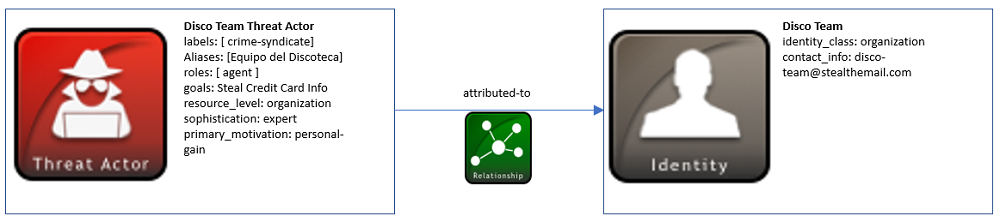
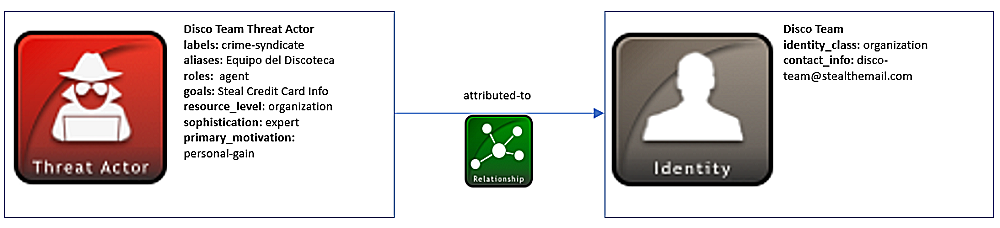
Added new Example, reformatted others
--Added "Sighting of an Indicator" example and corresponding
diagram/json.
Fixed several issues pointed out by Greg Back such as:
--Reording STIX Icons in alphabetical order on Examples page
--Adding links to objects within the content of each example
--Edited each diagram to help distinguish between properties/values,
make the pictures less blurry, and remove unnecessary brackets
--Added line to _config.yml file in order to remove smart quotes from
the site.
--Edited other typos with Examples' content

diff --git a/examples/threat-actor-leveraging-attack-patterns-and-malware.md b/examples/threat-actor-leveraging-attack-patterns-and-malware.md
@@ -14,15 +14,15 @@ This scenario represents a threat actor known as “Adversary Bravo”. Adversar
 **Data model**
 --------------
 
-Any known characteristics and attributes of Adversary Bravo can be modeled using the Threat Actor STIX Domain Object (SDO). This object captures information specific to the threat actor, such as other aliases, motivations for attacking, and roles they may have in an attack. Sometimes this information is not fully known, which is the case for Adversary Bravo. Therefore, you only need to specify required properties for the Threat Actor object which consist of a <span class="sdo">**name**</span> and a list of <span class="sdo">**labels**</span>. The <span class="sdo">**labels**</span> field categorizes the type of threat actor based on the open vocabulary [threat-actor-label-ov](https://docs.google.com/document/d/1HRVFn2kAxBOTMbEb3KRu8tjMoHm-KRAI-2R8CTzGil4/edit#heading=h.tqbl8z36yoir). In this instance we can infer that by using Poison Ivy malware to establish a remote backdoor, Adversary Bravo may be performing nefarious activity or spying which results in labels of <span class="values">criminal</span> and <span class="values">spy</span>.
+Any known characteristics and attributes of Adversary Bravo can be modeled using the [Threat Actor](https://docs.google.com/document/d/1nipwFIaFwkHo4Gzw-qxZQpCjP_5tX7rbI3Ic5C56Z88/edit#heading=h.k017w16zutw) STIX Domain Object (SDO). This object captures information specific to the threat actor, such as other aliases, motivations for attacking, and roles they may have in an attack. Sometimes this information is not fully known, which is the case for Adversary Bravo. Therefore, you only need to specify required properties for the Threat Actor object which consist of a <span class="sdo">**name**</span> and a list of <span class="sdo">**labels**</span>. The <span class="sdo">**labels**</span> field categorizes the type of threat actor based on the open vocabulary [threat-actor-label-ov](https://docs.google.com/document/d/1HRVFn2kAxBOTMbEb3KRu8tjMoHm-KRAI-2R8CTzGil4/edit#heading=h.tqbl8z36yoir). In this instance we can infer that by using Poison Ivy malware to establish a remote backdoor, Adversary Bravo may be performing nefarious activity or spying which results in labels of <span class="values">criminal</span> and <span class="values">spy</span>.
 
-Other basic identifying information about Adversary Bravo is captured with an Identity SDO. In this scenario, this object is used for a threat actor identity, but it can also represent organizations, governments, and other entities. It is useful for capturing sectors this Identity may be affiliated with as well as relevant contact information. In the case of Adversary Bravo, there is little information about this identity, so the required <span class="sdo">**identity\_class**</span> property, based on the [identity class open vocabulary](https://docs.google.com/document/d/1HRVFn2kAxBOTMbEb3KRu8tjMoHm-KRAI-2R8CTzGil4/edit#heading=h.be1dktvcmyu), would be <span class="values">unknown</span>. The Identity SDO can be linked with the Threat Actor SDO by using a Relationship object. The type of relationship between the 2 objects, represented by the <span class="sdo">**relationship\_type**</span> field, would contain a value of <span class="values">attributed-to</span>, meaning this threat actor is attributed to this identity.
+Other basic identifying information about Adversary Bravo is captured with an [Identity](https://docs.google.com/document/d/1nipwFIaFwkHo4Gzw-qxZQpCjP_5tX7rbI3Ic5C56Z88/edit#heading=h.wh296fiwpklp) SDO. In this scenario, this object is used for a threat actor identity, but it can also represent organizations, governments, and other entities. It is useful for capturing sectors this Identity may be affiliated with as well as relevant contact information. In the case of Adversary Bravo, there is little information about this identity, so the required <span class="sdo">**identity\_class**</span> property, based on the [identity class open vocabulary](https://docs.google.com/document/d/1HRVFn2kAxBOTMbEb3KRu8tjMoHm-KRAI-2R8CTzGil4/edit#heading=h.be1dktvcmyu), would be <span class="values">unknown</span>. The Identity SDO can be linked with the Threat Actor SDO by using a Relationship object. The type of relationship between the 2 objects, represented by the <span class="sdo">**relationship\_type**</span> field, would contain a value of <span class="values">attributed-to</span>, meaning this threat actor is attributed to this identity.
 
-The malware in this scenario is a Poison Ivy variant d1c6 which can be represented using a Malware SDO. It is required for every Malware object to incorporate a list of <span class="sdo">**labels**</span> to describe the malware. Since this is a type of remote trojan, the <span class="sdo">**labels**</span> property would contain the value <span class="values">remote-access-trojan</span> which comes from the [malware label open vocabulary](https://docs.google.com/document/d/1HRVFn2kAxBOTMbEb3KRu8tjMoHm-KRAI-2R8CTzGil4/edit#heading=h.8cyb6e9yqzwr). You can label malware objects with more than one value however, as some may likely have more than one capability. For instance, a particular type of malware could be both a keylogger and spyware. Another relationship can be established between this Malware SDO and the Threat Actor SDO. In this case, the <span class="sdo">**relationship\_type**</span> between the two objects would be <span class="values">uses</span>. The Threat Actor <span class="values">uses</span> the Malware.
+The malware in this scenario is a Poison Ivy variant d1c6 which can be represented using a [Malware](https://docs.google.com/document/d/1nipwFIaFwkHo4Gzw-qxZQpCjP_5tX7rbI3Ic5C56Z88/edit#heading=h.s5l7katgbp09) SDO. It is required for every Malware object to incorporate a list of <span class="sdo">**labels**</span> to describe the malware. Since this is a type of remote trojan, the <span class="sdo">**labels**</span> property would contain the value <span class="values">remote-access-trojan</span> which comes from the [malware label open vocabulary](https://docs.google.com/document/d/1HRVFn2kAxBOTMbEb3KRu8tjMoHm-KRAI-2R8CTzGil4/edit#heading=h.8cyb6e9yqzwr). You can label malware objects with more than one value however, as some may likely have more than one capability. For instance, a particular type of malware could be both a keylogger and spyware. Another relationship can be established between this Malware SDO and the Threat Actor SDO. In this case, the <span class="sdo">**relationship\_type**</span> between the two objects would be <span class="values">uses</span>. The Threat Actor <span class="values">uses</span> the Malware.
 
-Adversary Bravo uses phishing as a delivery mechanism for the Poison Ivy malware which can be represented using an Attack Pattern SDO. In addition to providing more context about what the threat actor is trying to do, Attack Pattern objects are useful for representing taxonomies such as CAPEC with the <span class="sdo">**external\_references**</span> field. [*Common Attack Pattern Enumeration and Classification (CAPEC™)*](http://capec.mitre.org/) is a dictionary of potential attack patterns, so in this case by looking in that dictionary the producer could see that “CAPEC-98” is the ID for phishing and can label the <span class="sdo">**external\_id**</span> as such. A Relationship SRO once again links the Threat Actor to this Attack Pattern object with a <span class="sdo">**relationship\_type**</span> of <span class="values">uses</span>.
+Adversary Bravo uses phishing as a delivery mechanism for the Poison Ivy malware which can be represented using an [Attack Pattern](https://docs.google.com/document/d/1nipwFIaFwkHo4Gzw-qxZQpCjP_5tX7rbI3Ic5C56Z88/edit#heading=h.axjijf603msy) SDO. In addition to providing more context about what the threat actor is trying to do, Attack Pattern objects are useful for representing taxonomies such as CAPEC with the <span class="sdo">**external\_references**</span> field. [*Common Attack Pattern Enumeration and Classification (CAPEC™)*](http://capec.mitre.org/) is a dictionary of potential attack patterns, so in this case by looking in that dictionary the producer could see that “CAPEC-98” is the ID for phishing and can label the <span class="sdo">**external\_id**</span> as such. A Relationship SRO once again links the Threat Actor to this Attack Pattern object with a <span class="sdo">**relationship\_type**</span> of <span class="values">uses</span>.
 
-One other useful concept that is seen in both the Malware and Attack Pattern objects is the ability to capture kill chain information. For instance, certain attack patterns, malware, and tools might be used to establish a foothold or move laterally once a system has been compromised. In this example, the Poison Ivy malware and phishing attack pattern are associated with the kill chain phase <span class="values">initial-compromise</span>, since the threat actor is attempting to establish an initial backdoor with the Poison Ivy variant. This phase is from the Mandiant Attack Lifecycle Model, but you are not limited to using any specific type of kill chain.
+One other useful concept that is seen in both the Malware and Attack Pattern objects is the ability to capture [kill chain](https://docs.google.com/document/d/1IcA5KhglNdyX3tO17bBluC5nqSf70M5qgK9nuAoYJgw/edit#heading=h.i4tjv75ce50h) information. For instance, certain attack patterns, malware, and tools might be used to establish a foothold or move laterally once a system has been compromised. In this example, the Poison Ivy malware and phishing attack pattern are associated with the kill chain phase <span class="values">initial-compromise</span>, since the threat actor is attempting to establish an initial backdoor with the Poison Ivy variant. This phase is from the Mandiant Attack Lifecycle Model, but you are not limited to using any specific type of kill chain.
 
 A diagram below shows the objects used in this scenario:
 
@@ -40,6 +40,7 @@ To read more about the objects in this example as well as common properties and 
 -   [Attack Pattern](https://docs.google.com/document/d/1nipwFIaFwkHo4Gzw-qxZQpCjP_5tX7rbI3Ic5C56Z88/edit#heading=h.axjijf603msy)
 -   [Malware](https://docs.google.com/document/d/1nipwFIaFwkHo4Gzw-qxZQpCjP_5tX7rbI3Ic5C56Z88/edit#heading=h.s5l7katgbp09)
 -   [Relationship](https://docs.google.com/document/d/1nipwFIaFwkHo4Gzw-qxZQpCjP_5tX7rbI3Ic5C56Z88/edit#heading=h.e2e1szrqfoan)
+-   [Kill Chain Phase](https://docs.google.com/document/d/1IcA5KhglNdyX3tO17bBluC5nqSf70M5qgK9nuAoYJgw/edit#heading=h.i4tjv75ce50h)
 
 **JSON**
 ------------------

diff --git a/examples/sighting-of-an-indicator.md b/examples/sighting-of-an-indicator.md
@@ -1,0 +1,115 @@
+---
+layout: page
+title: Sighting of an Indicator
+categories: examples
+---
+
+A major benefit of cyber threat intelligence sharing and collaboration is the ability to alert other companies and agencies ahead of time that an indicator is present on a system or network. This allows for a more proactive approach in addressing cyber threats. In many cases, an indicator that was spotted on one network is also seen on another network. Being able to share that a particular indicator was seen elsewhere is vital to other organizations consuming this information.
+
+**Scenario**
+------------
+
+This scenario consists of two cyber threat companies, Alpha and Beta, who share threat intelligence. A malicious URL was seen on Alpha’s network and an indicator was generated to capture this information. Alpha then shares this information with company Beta who later sees this indicator on their systems. Beta then creates a sighting of this indicator to share that this indicator has been spotted.
+
+**Data model**
+--------------
+
+In this example, there are two [Identity](https://docs.google.com/document/d/1S5XhY6F5OT599b0OuHtUf8IBzFvNY8RysFHIj93DgsY/edit#heading=h.wh296fiwpklp) STIX Domain Objects (SDOs) used for the two companies: Alpha and Beta. The Identity objects document relevant information about the two organizations, such as what sector they are in, what they do, and contact information. Both organizations are producers and consumers of STIX intelligence, so their <span class="sdo">**id**</span>’s can be referenced within objects using the <span class="sdo">**created\_by\_ref**</span> property to indicate they are the originators of the STIX objects they generate. It is worth noting that Identity SDO’s can also be used to represent individuals, attack targets, government agencies, and groups, to name a few.
+
+Identity objects at the very minimum need a couple of required properties: <span class="sdo">**name**</span> and <span class="sdo">**identity\_class**</span>. The <span class="sdo">**identity\_class**</span> field is important for categorizing the type of identity Alpha and Beta represent. In both their cases, this field would be populated with the value <span class="values">organization</span>. This term comes from the [identity class open vocabulary](https://docs.google.com/document/d/1HRVFn2kAxBOTMbEb3KRu8tjMoHm-KRAI-2R8CTzGil4/edit#heading=h.be1dktvcmyu), which contains suggested values for labeling identities.
+
+The other fields within the Identity SDO are optional but help to structure a complete profile of the identity. For instance, it might be useful to know the list of roles an individual or group may perform, which is captured with the <span class="sdo">**labels**</span> property. Since both companies in this scenario deal with cyber threats, it makes sense to have them labeled as <span class="values">cyber security</span>. If you know the list of <span class="sdo">**sectors**</span> the identities may belong to or any relevant <span class="sdo">**contact\_information**</span>, this can be provided as well for these objects. For example, knowing that some STIX object creators are in the financial sector may provide more context as to why they are seeing certain indicators or being targeted by specific threat actors. Both of the companies in this example operate in the <span class="values">technology</span> sector, which comes from the [industry sector open vocabulary](https://docs.google.com/document/d/1IcA5KhglNdyX3tO17bBluC5nqSf70M5qgK9nuAoYJgw/edit#heading=h.oogrswk3onck).
+
+Next, the Alpha company uses an [Indicator](https://docs.google.com/document/d/1S5XhY6F5OT599b0OuHtUf8IBzFvNY8RysFHIj93DgsY/edit#heading=h.muftrcpnf89v) SDO to capture information about the malicious URL they discovered on their network. Using the [STIX patterning language](https://docs.google.com/document/d/1suvd7z7YjNKWOwgko-vJ84jfGuxSYZjOQlw5leCswPY/edit), Alpha represents the URL as a comparison expression in the <span class="sdo">**pattern**</span> property: <span class="values">\[url:value = 'http://paypa1.banking.com'\]</span>. Since Alpha knows this URL is nefarious, they label this Indicator as <span class="values">malicious-activity</span> using the <span class="sdo">**labels**</span> field which comes from the [indicator label open vocabulary](https://docs.google.com/document/d/1IcA5KhglNdyX3tO17bBluC5nqSf70M5qgK9nuAoYJgw/edit#heading=h.cvhfwe3t9vuo).
+
+The Beta company receives this indicator intelligence from Alpha and implements it on their own network to look for this specific URL. Once they spot it, they generate a [Sighting](https://docs.google.com/document/d/1S5XhY6F5OT599b0OuHtUf8IBzFvNY8RysFHIj93DgsY/edit#heading=h.a795guqsap3r) STIX Relationship Object (SRO), which is a special type of relationship object that differs from the regular Relationship SRO. For instance, Sighting contains unique properties like <span class="sdo">**count**</span>, <span class="sdo">**first\_seen**</span>, and <span class="sdo">**last\_seen**</span> that convey when a SDO was seen within a particular timeframe as well as the number of times this SDO was seen. Alternatively, a standard Relationship SRO is simply used to connect two SDO’s together and does not provide the same type of intelligence assertions.
+
+In this example, Beta’s Sighting object captures information about Alpha’s Indicator which they spotted on their network. Since they are the creator of this object as well as the victim in this instance, Beta’s Identity ID is represented in the <span class="sdo">**created\_by\_ref**</span> and <span class="sdo">**where\_sighted\_refs**</span> properties respectively. It is worth mentioning that the <span class="sdo">**where\_sighted\_refs**</span> field is a list, so it can also list other Identity SDO ID’s where this indicator was seen. Another reference, <span class="sdo">**sighting\_of\_ref**</span>, contains the ID of the SDO that was sighted, which in this case is the Indicator object. This is a required property due to the fact you cannot have a Sighting without an object to sight.
+
+In some cases, an indicator like a URL can be spotted several times on a network over a significant period of time. For this scenario, however, Beta only spotted the URL once which results in the **count** field reflecting an integer value of “1”. Since it was just seen once, the <span class="sdo">**first\_seen**</span>, and <span class="sdo">**last\_seen**</span> properties portray the same timestamp.
+
+A diagram of this scenario below shows the Identity and Indicator SDO’s and the Sighting SRO:
+
+![Sighting of an Indicator]({{ site.baseurl }}/img/Sighting-of-an-indicator.PNG)
+
+**Further Reading**
+-------------------
+
+To read more about the objects in this example as well as common properties and vocabularies, check out the links below:
+
+-   [Common Properties](https://docs.google.com/document/d/1HRVFn2kAxBOTMbEb3KRu8tjMoHm-KRAI-2R8CTzGil4/edit#heading=h.xzbicbtscatx)
+-   [Vocabularies](https://docs.google.com/document/d/1HRVFn2kAxBOTMbEb3KRu8tjMoHm-KRAI-2R8CTzGil4/edit#heading=h.iit7tolczlxv)
+-   [Identity](https://docs.google.com/document/d/1nipwFIaFwkHo4Gzw-qxZQpCjP_5tX7rbI3Ic5C56Z88/edit#heading=h.wh296fiwpklp)
+-   [Sighting](https://docs.google.com/document/d/1S5XhY6F5OT599b0OuHtUf8IBzFvNY8RysFHIj93DgsY/edit#heading=h.a795guqsap3r)
+-   [Indicator](https://docs.google.com/document/d/1S5XhY6F5OT599b0OuHtUf8IBzFvNY8RysFHIj93DgsY/edit#heading=h.muftrcpnf89v)
+
+**JSON**
+------------------
+
+```
+{
+  "type": "bundle",
+  "id": "bundle--c6a895f2-849c-4d1b-aba4-4b45c2800374",
+  "spec_version": "2.0",
+  "objects": [
+    {
+      "type": "identity",
+      "id": "identity--39012926-a052-44c4-ae48-caaf4a10ee6e",
+      "created": "2017-02-24T15:50:10.564Z",
+      "modified": "2017-08-24T15:50:10.564Z",
+      "name": "Alpha Threat Analysis Org.",
+      "identity_class": "organization",
+      "labels": [
+        "Cyber Security"
+      ],
+      "sectors": [
+        "technology"
+      ],
+      "contact_information": "info@alpha.org"
+    },
+    {
+      "type": "identity",
+      "id": "identity--5206ba14-478f-4b0b-9a48-395f690c20a2",
+      "created": "2017-02-26T17:55:10.442Z",
+      "modified": "2017-02-26T17:55:10.442Z",
+      "name": "Beta Cyber Intelligence Company",
+      "identity_class": "organization",
+      "labels": [
+        "Cyber Security"
+      ],
+      "sectors": [
+        "technology"
+      ],
+      "contact_information": "info@beta.com"
+    },
+    {
+      "type": "indicator",
+      "id": "indicator--9299f726-ce06-492e-8472-2b52ccb53191",
+      "created_by_ref": "identity--39012926-a052-44c4-ae48-caaf4a10ee6e",
+      "created": "2017-02-27T13:57:10.515Z",
+      "modified": "2017-02-27T13:57:10.515Z",
+      "name": "Malicious URL",
+      "description": "This URL is potentially associated with malicious activity and is listed on several blacklist sites.",
+      "pattern": "[url:value = 'http://paypa1.banking.com']",
+      "valid_from": "2015-06-29T09:10:15.915Z",
+      "labels": [
+        "malicious-activity"
+      ]
+    },
+    {
+      "type": "sighting",
+      "id": "sighting--8356e820-8080-4692-aa91-ecbe94006833",
+      "created_by_ref": "identity--5206ba14-478f-4b0b-9a48-395f690c20a2",
+      "created": "2017-02-28T19:37:11.213Z",
+      "modified": "2017-02-28T19:37:11.213Z",
+      "first_seen": "2017-02-27T21:37:11.213Z",
+      "last_seen": "2017-02-27T21:37:11.213Z",
+      "count": 1,
+      "sighting_of_ref": "indicator--9299f726-ce06-492e-8472-2b52ccb53191",
+      "where_sighted_refs": [
+        "identity--5206ba14-478f-4b0b-9a48-395f690c20a2"
+      ]
+    }
+  ]
+}
+```

diff --git a/examples/identifying-a-threat-actor-profile.md b/examples/identifying-a-threat-actor-profile.md
@@ -14,19 +14,19 @@ In this scenario, a threat actor group named “Disco Team” is modeled using S
 **Data model**
 --------------
 
-Threat actor identification is, as you would expect, represented using the Threat Actor STIX Domain Object (SDO). Information relevant to threat actors, such as goals and motivations, can be captured within this object. Other basic information not specific to threat actors, such as contact information, is best represented using an Identity SDO. Identity objects can also be used for more than threat actors in STIX. They can model organizations, government agencies, and information sources to name a few.
+Threat actor identification is, as you would expect, represented using the [Threat Actor](https://docs.google.com/document/d/1S5XhY6F5OT599b0OuHtUf8IBzFvNY8RysFHIj93DgsY/edit#heading=h.k017w16zutw) STIX Domain Object (SDO). Information relevant to threat actors, such as goals and motivations, can be captured within this object. Other basic information not specific to threat actors, such as contact information, is best represented using an Identity SDO. Identity objects can also be used for more than threat actors in STIX. They can model organizations, government agencies, and information sources to name a few.
 
-It is important to note that the Disco Team group operates as a Threat Actor and not an Intrusion Set in this scenario. They could potentially support an intrusion set, but that information is unknown. An Intrusion Set is best used to describe an entire attack set that would include multiple campaigns and purposes. In this instance, Disco Team is a self-named threat actor operating with one purpose in mind.
+It is important to note that the Disco Team group operates as a Threat Actor and not an [Intrusion Set](https://docs.google.com/document/d/1S5XhY6F5OT599b0OuHtUf8IBzFvNY8RysFHIj93DgsY/edit#heading=h.5ol9xlbbnrdn) in this scenario. They could potentially support an intrusion set, but that information is unknown. An Intrusion Set is best used to describe an entire attack set that would include multiple campaigns and purposes. In this instance, Disco Team is a self-named threat actor operating with one purpose in mind.
 
-The <span class="sdo">**name**</span> and <span class="sdo">**labels**</span> properties are the only required properties needed for a Threat Actor SDO. The **labels** field is important for describing what type of threat actor Disco Team is. Because Disco Team is regarded as large, organized, and driven to steal financial information, they are best represented with the label <span class="values">crime-syndicate</span>.
+The <span class="sdo">**name**</span> and <span class="sdo">**labels**</span> properties are the only required properties needed for a Threat Actor SDO. The <span class="sdo">**labels**</span> field is important for describing what type of threat actor Disco Team is. Because Disco Team is regarded as large, organized, and driven to steal financial information, they are best represented with the label <span class="values">crime-syndicate</span>.
 
 The Threat Actor SDO can also model optional properties that construct a more complete threat actor profile. The <span class="sdo">**aliases**</span> field, for instance, contains a list of other names this threat actor is known to be called. A threat actor may also have one or more <span class="sdo">**roles**</span> that describe more about what they do. For instance, a threat actor could sponsor or direct attacks, author malware, or operate malicious infrastructure. In the case of Disco Team, they operate as an <span class="values">agent</span>, carrying out attacks that steal financial information on behalf of themselves.
 
 Like most threat actors, Disco Team has a specific goal in mind for their attacks. Therefore, a list of <span class="sdo">**goals**</span> describes what the threat actor is trying to do. In this case, Disco Team’s only goal is stealing credit card credentials. Threat actors also have varying degrees of expertise, so the <span class="sdo">**sophistication**</span> level of the attacker, if known, can describe the attacker’s skill and knowledge. Disco Team is labeled as <span class="values">expert</span> due to advanced attack methods and proficiency with tools or malicious code. Their <span class="sdo">**resource\_level**</span> of <span class="values">organization</span> indicates that they are large and well-funded, more so than smaller individuals or teams. Finally, threat actors usually have one or several motivations behind their attacks. The <span class="sdo">**primary\_motivation**</span> field describes the main reason for attacking. Some threat actors may seek notoriety or dominance, while others are strictly doing it for revenge or personal satisfaction. For Disco Team, obtaining financial information falls under the motivation of <span class="values">personal-gain</span>.
 
-Basic identifying information of the threat actor can be modeled with the Identity SDO. For Disco Team, they are a type of <span class="values">organization</span>, which the <span class="sdo">**identity\_class**</span> field captures. This is due to this threat actor being more formal and organized, rather than an <span class="values">individual</span> hacker or informal <span class="values">group</span> of hackers. Another property that captures <span class="sdo">**contact\_information**</span>, if known for the identity, represents any email addresses or phone numbers. For Disco Team, an email address is provided.
+Basic identifying information of the threat actor can be modeled with the [Identity](https://docs.google.com/document/d/1nipwFIaFwkHo4Gzw-qxZQpCjP_5tX7rbI3Ic5C56Z88/edit#heading=h.wh296fiwpklp) SDO. For Disco Team, they are a type of <span class="values">organization</span>, which the <span class="sdo">**identity\_class**</span> field captures. This is due to this threat actor being more formal and organized, rather than an <span class="values">individual</span> hacker or informal <span class="values">group</span> of hackers. Another property that captures <span class="sdo">**contact\_information**</span>, if known for the identity, represents any email addresses or phone numbers. For Disco Team, an email address is provided.
 
-Now that the information for Disco Team is represented in the Threat Actor and Identity SDO’s, the Relationship SRO links the two objects together. In this example, the <span class="sdo">**source\_ref**</span> threat actor id is <span class="values">attributed-to</span> the <span class="sdo">**target\_ref**</span> identity id:
+Now that the information for Disco Team is represented in the Threat Actor and Identity SDO’s, the [Relationship](https://docs.google.com/document/d/1nipwFIaFwkHo4Gzw-qxZQpCjP_5tX7rbI3Ic5C56Z88/edit#heading=h.e2e1szrqfoan) SRO links the two objects together. In this example, the <span class="sdo">**source\_ref**</span> threat actor id is <span class="values">attributed-to</span> the <span class="sdo">**target\_ref**</span> identity id:
 
 A diagram of this relationship below shows the Threat Actor and Identity SDO’s and the Relationship SRO:
 

diff --git a/examples/malware-indicator-for-file-hash.md b/examples/malware-indicator-for-file-hash.md
@@ -14,13 +14,13 @@ This scenario consists of the description of a simple indicator that represents 
 **Data model**
 ----------
 
[2 lines of base64/hex data omitted]
 
 Indicator objects also require a <span class="sdo">**labels**</span> property which helps to define what type of indicator is being represented. In this scenario, the hash value is associated with Poison Ivy, a known nefarious type of malware, so this indicator is labeled as <span class="values">malicious-activity</span>. This value is taken from the [Indicator Label](https://docs.google.com/document/d/1HRVFn2kAxBOTMbEb3KRu8tjMoHm-KRAI-2R8CTzGil4/edit#heading=h.cvhfwe3t9vuo) open vocabulary which provides other useful labels for classifying indicators.
 
-Next, the details of the Poison Ivy malware are captured using a STIX Malware object. Malware objects in STIX also contain a required <span class="sdo">**labels**</span> property that is needed to specify the type of malware. In this case, Poison Ivy is a <span class="values">remote-access-trojan</span>. This value comes from the [Malware Label](https://docs.google.com/document/d/1HRVFn2kAxBOTMbEb3KRu8tjMoHm-KRAI-2R8CTzGil4/edit#heading=h.8cyb6e9yqzwr) open vocabulary, which contains several common types of malware categories such as virus, backdoor, spyware, etc.
+Next, the details of the Poison Ivy malware are captured using a STIX [Malware](https://docs.google.com/document/d/1nipwFIaFwkHo4Gzw-qxZQpCjP_5tX7rbI3Ic5C56Z88/edit#heading=h.s5l7katgbp09) object. Malware objects in STIX also contain a required <span class="sdo">**labels**</span> property that is needed to specify the type of malware. In this case, Poison Ivy is a <span class="values">remote-access-trojan</span>. This value comes from the [Malware Label](https://docs.google.com/document/d/1HRVFn2kAxBOTMbEb3KRu8tjMoHm-KRAI-2R8CTzGil4/edit#heading=h.8cyb6e9yqzwr) open vocabulary, which contains several common types of malware categories such as virus, backdoor, spyware, etc.
 
-These SDO’s are then coupled together via a Relationship STIX Relationship Object (SRO). This Relationship connects the <span class="sdo">**source\_ref**</span>, Indicator, with the <span class="sdo">**target\_ref**</span>, Malware, via an <span class="values">indicates</span> <span class="sdo">**relationship\_type**</span>.
+These SDO’s are then coupled together via a [Relationship](https://docs.google.com/document/d/1nipwFIaFwkHo4Gzw-qxZQpCjP_5tX7rbI3Ic5C56Z88/edit#heading=h.e2e1szrqfoan) STIX Relationship Object (SRO). This Relationship connects the <span class="sdo">**source\_ref**</span>, Indicator, with the <span class="sdo">**target\_ref**</span>, Malware, via an <span class="values">indicates</span> <span class="sdo">**relationship\_type**</span>.
 
 A diagram of this relationship below shows the Indicator and Malware SDO’s and the Relationship SRO between them:
 
@@ -32,6 +32,7 @@ A diagram of this relationship below shows the Indicator and Malware SDO’s and
 To read more about the objects in this example as well as common properties and STIX patterning, check out the links below:
 
 -   [Common Properties](https://docs.google.com/document/d/1HRVFn2kAxBOTMbEb3KRu8tjMoHm-KRAI-2R8CTzGil4/edit#heading=h.xzbicbtscatx)
+-   [Vocabularies](https://docs.google.com/document/d/1HRVFn2kAxBOTMbEb3KRu8tjMoHm-KRAI-2R8CTzGil4/edit#heading=h.iit7tolczlxv)
 -   [Malware](https://docs.google.com/document/d/1nipwFIaFwkHo4Gzw-qxZQpCjP_5tX7rbI3Ic5C56Z88/edit#heading=h.s5l7katgbp09)
 -   [Indicator](https://docs.google.com/document/d/1nipwFIaFwkHo4Gzw-qxZQpCjP_5tX7rbI3Ic5C56Z88/edit#heading=h.muftrcpnf89v)
 -   [Relationship](https://docs.google.com/document/d/1nipwFIaFwkHo4Gzw-qxZQpCjP_5tX7rbI3Ic5C56Z88/edit#heading=h.e2e1szrqfoan)

diff --git a/examples/indicator-for-malicious-url.md b/examples/indicator-for-malicious-url.md
@@ -15,17 +15,17 @@ This scenario consists of an indicator for the URL <span class="values">http://
 **Data model**
 --------------
 
-Malicious URL values are just one of many indicators that can be represented using the Indicator STIX Domain Object (SDO). This is accomplished using the Indicator SDO’s <span class="sdo">**pattern**</span> property which is based on the [STIX patterning](https://docs.google.com/document/d/1VHy5FIAj2rBlrRlNH3lRCBa5EfrxSDGemG4PrI9JG4I/edit) language. Using this language, the URL can be structured using a comparison expression: <span class="values">\[url:value= 'http://x4z9arb.cn/4712/'\]</span>.
+Malicious URL values are just one of many indicators that can be represented using the [Indicator](https://docs.google.com/document/d/1nipwFIaFwkHo4Gzw-qxZQpCjP_5tX7rbI3Ic5C56Z88/edit#heading=h.muftrcpnf89v) STIX Domain Object (SDO). This is accomplished using the Indicator SDO’s <span class="sdo">**pattern**</span> property which is based on the [STIX patterning](https://docs.google.com/document/d/1VHy5FIAj2rBlrRlNH3lRCBa5EfrxSDGemG4PrI9JG4I/edit) language. Using this language, the URL can be structured using a comparison expression: <span class="values">\[url:value= 'http://x4z9arb.cn/4712/'\]</span>.
 
 This Indicator object must also contain a <span class="sdo">**labels**</span> property that provides more context about the URL. The URL in this scenario is known to be malicious so the appropriate label for this Indicator is <span class="values">malicious-activity</span>. This value is taken from an [Indicator Label](https://docs.google.com/document/d/1HRVFn2kAxBOTMbEb3KRu8tjMoHm-KRAI-2R8CTzGil4/edit#heading=h.cvhfwe3t9vuo) open vocabulary which contains other useful labels for categorizing indicators.
 
 Another required field for Indicator objects called <span class="sdo">**valid\_from**</span> dictates the time from which this URL should be considered worthwhile intelligence. In this case, the URL is valid from the time the object was created.
 
-The malware associated with the URL in this scenario is a type of backdoor and can be modeled using the STIX Malware SDO. Like with the Indicator object, Malware objects can be further classified using a <span class="sdo">**labels**</span> property that comes from the [Malware Label](https://docs.google.com/document/d/1HRVFn2kAxBOTMbEb3KRu8tjMoHm-KRAI-2R8CTzGil4/edit#heading=h.8cyb6e9yqzwr) open vocabulary. For instance, a piece of malware might be classified as a keylogger, spyware, worm, virus, etc. In this example, the malware affiliated with the URL is a type of <span class="values">backdoor</span> and <span class="values">remote-access-trojan</span>.
+The malware associated with the URL in this scenario is a type of backdoor and can be modeled using the STIX [Malware](https://docs.google.com/document/d/1nipwFIaFwkHo4Gzw-qxZQpCjP_5tX7rbI3Ic5C56Z88/edit#heading=h.s5l7katgbp09) SDO. Like with the Indicator object, Malware objects can be further classified using a <span class="sdo">**labels**</span> property that comes from the [Malware Label](https://docs.google.com/document/d/1HRVFn2kAxBOTMbEb3KRu8tjMoHm-KRAI-2R8CTzGil4/edit#heading=h.8cyb6e9yqzwr) open vocabulary. For instance, a piece of malware might be classified as a keylogger, spyware, worm, virus, etc. In this example, the malware affiliated with the URL is a type of <span class="values">backdoor</span> and <span class="values">remote-access-trojan</span>.
 
 A Malware SDO can also be useful for capturing kill chain information about the malware instance. It is known that this piece of malware attempts to establish a backdoor foothold and download remote files. Therefore, the Malware object represents this with a <span class="sdo">**kill\_chain\_phases**</span> list which contains both the name of the kill chain used and the phase within that kill chain. For this scenario, the Mandiant Attack Lifecycle Model was used as the kill chain and contains the <span class="sdo">**phase\_name**</span> <span class="values">establish-foothold</span>. Other kill chains such as Lockheed Martin’s or organization-specific ones can be used as well.
 
-Finally, a Relationship SRO can be used to link the Indicator and Malware objects. The URL Indicator <span class="values">indicates</span> the backdoor Malware object. In this relationship, the indicator id is the <span class="sdo">**source\_ref**</span>, and the malware id is the <span class="sdo">**target\_ref**</span>.
+Finally, a [Relationship](https://docs.google.com/document/d/1nipwFIaFwkHo4Gzw-qxZQpCjP_5tX7rbI3Ic5C56Z88/edit#heading=h.e2e1szrqfoan) SRO can be used to link the Indicator and Malware objects. The URL Indicator <span class="values">indicates</span> the backdoor Malware object. In this relationship, the indicator id is the <span class="sdo">**source\_ref**</span>, and the malware id is the <span class="sdo">**target\_ref**</span>.
 
 A diagram of this relationship below shows the Indicator and Malware SDO’s and the Relationship SRO between them:
 

diff --git a/stix/examples.md b/stix/examples.md
@@ -11,10 +11,11 @@ The examples below demonstrate how to use STIX 2.0 concepts for common use cases
 
 | Example                                 | STIX Types                                        | Description                                 |
 | --------------------------------------- | ------------------------------------------------- | ------------------------------------------- |
-| [Identifying a Threat Actor Profile](/cti-documentation/examples/identifying-a-threat-actor-profile)      | ![Threat Actor Icon]({{ site.baseurl }}/img/icons/threat_actor.png)  ![Identity Icon]({{ site.baseurl }}/img/icons/identity.png) | Threat Actors often have several discernible characteristics such as aliases, goals and motivations which can be captured within a STIX Threat Actor object. In this example, the threat actor can also be attributed to an Identity object which models more basic identifiable information. |
+| [Identifying a Threat Actor Profile](/cti-documentation/examples/identifying-a-threat-actor-profile)      | ![Identity Icon]({{ site.baseurl }}/img/icons/identity.png) ![Threat Actor Icon]({{ site.baseurl }}/img/icons/threat_actor.png) | Threat Actors often have several discernible characteristics such as aliases, goals and motivations which can be captured within a STIX Threat Actor object. In this example, the threat actor can also be attributed to an Identity object which models more basic identifiable information. |
 | --------------------------------------- | ------------------------------------------------- | ------------------------------------------- |
 | [Indicator for Malicious URL](/cti-documentation/examples/indicator-for-malicious-url)             | ![Indicator Icon]({{ site.baseurl }}/img/icons/indicator.png) ![Malware Icon]({{ site.baseurl }}/img/icons/malware.png) | This example models a STIX Indicator object that represents a malicious URL using STIX patterning language. The Indicator indicates that it's a delivery mechanism for a piece of malware. |
 | --------------------------------------- | ------------------------------------------------- | ------------------------------------------- |
 | [Malware Indicator for File Hash](/cti-documentation/examples/malware-indicator-for-file-hash)         | ![Indicator Icon]({{ site.baseurl }}/img/icons/indicator.png) ![Malware Icon]({{ site.baseurl }}/img/icons/malware.png) | File hashes for malware variants can be captured within an Indicator STIX Domain Object and then associated with a Malware object which provides more detail about the malware.  |
 | --------------------------------------- | ------------------------------------------------- | ------------------------------------------- |
-| [Threat Actor Leveraging Attack Patterns and Malware](/cti-documentation/examples/threat-actor-leveraging-attack-patterns-and-malware) | ![Threat Actor Icon]({{ site.baseurl }}/img/icons/threat_actor.png) ![Identity Icon]({{ site.baseurl }}/img/icons/identity.png) ![Attack Pattern Icon]({{ site.baseurl }}/img/icons/attack_pattern.png) ![Malware Icon]({{ site.baseurl }}/img/icons/malware.png) | Threat actors can often be characterized by the attack patterns they leverage and the malware varieties they use. This example describes how to represent a threat actor who uses a phishing attack pattern to deliver a form of malware. |
+| [Sighting of an Indicator](/cti-documentation/examples/sighting-of-an-indicator) | ![Identity Icon]({{ site.baseurl }}/img/icons/identity.png) ![Indicator Icon]({{ site.baseurl }}/img/icons/indicator.png) ![Sighting Icon]({{ site.baseurl }}/img/icons/sighting.png) | Indicators on one organization's network are often spotted on other organizations' networks. When this is the case, a Sighting STIX Relationship Object (SRO) can be issued to relay that this specific indicator was seen. This example discusses how a company can use a Sighting for a STIX Indicator object.
+| [Threat Actor Leveraging Attack Patterns and Malware](/cti-documentation/examples/threat-actor-leveraging-attack-patterns-and-malware) | ![Attack Pattern Icon]({{ site.baseurl }}/img/icons/attack_pattern.png) ![Identity Icon]({{ site.baseurl }}/img/icons/identity.png) ![Malware Icon]({{ site.baseurl }}/img/icons/malware.png) ![Threat Actor Icon]({{ site.baseurl }}/img/icons/threat_actor.png) | Threat actors can often be characterized by the attack patterns they leverage and the malware varieties they use. This example describes how to represent a threat actor who uses a phishing attack pattern to deliver a form of malware. |
